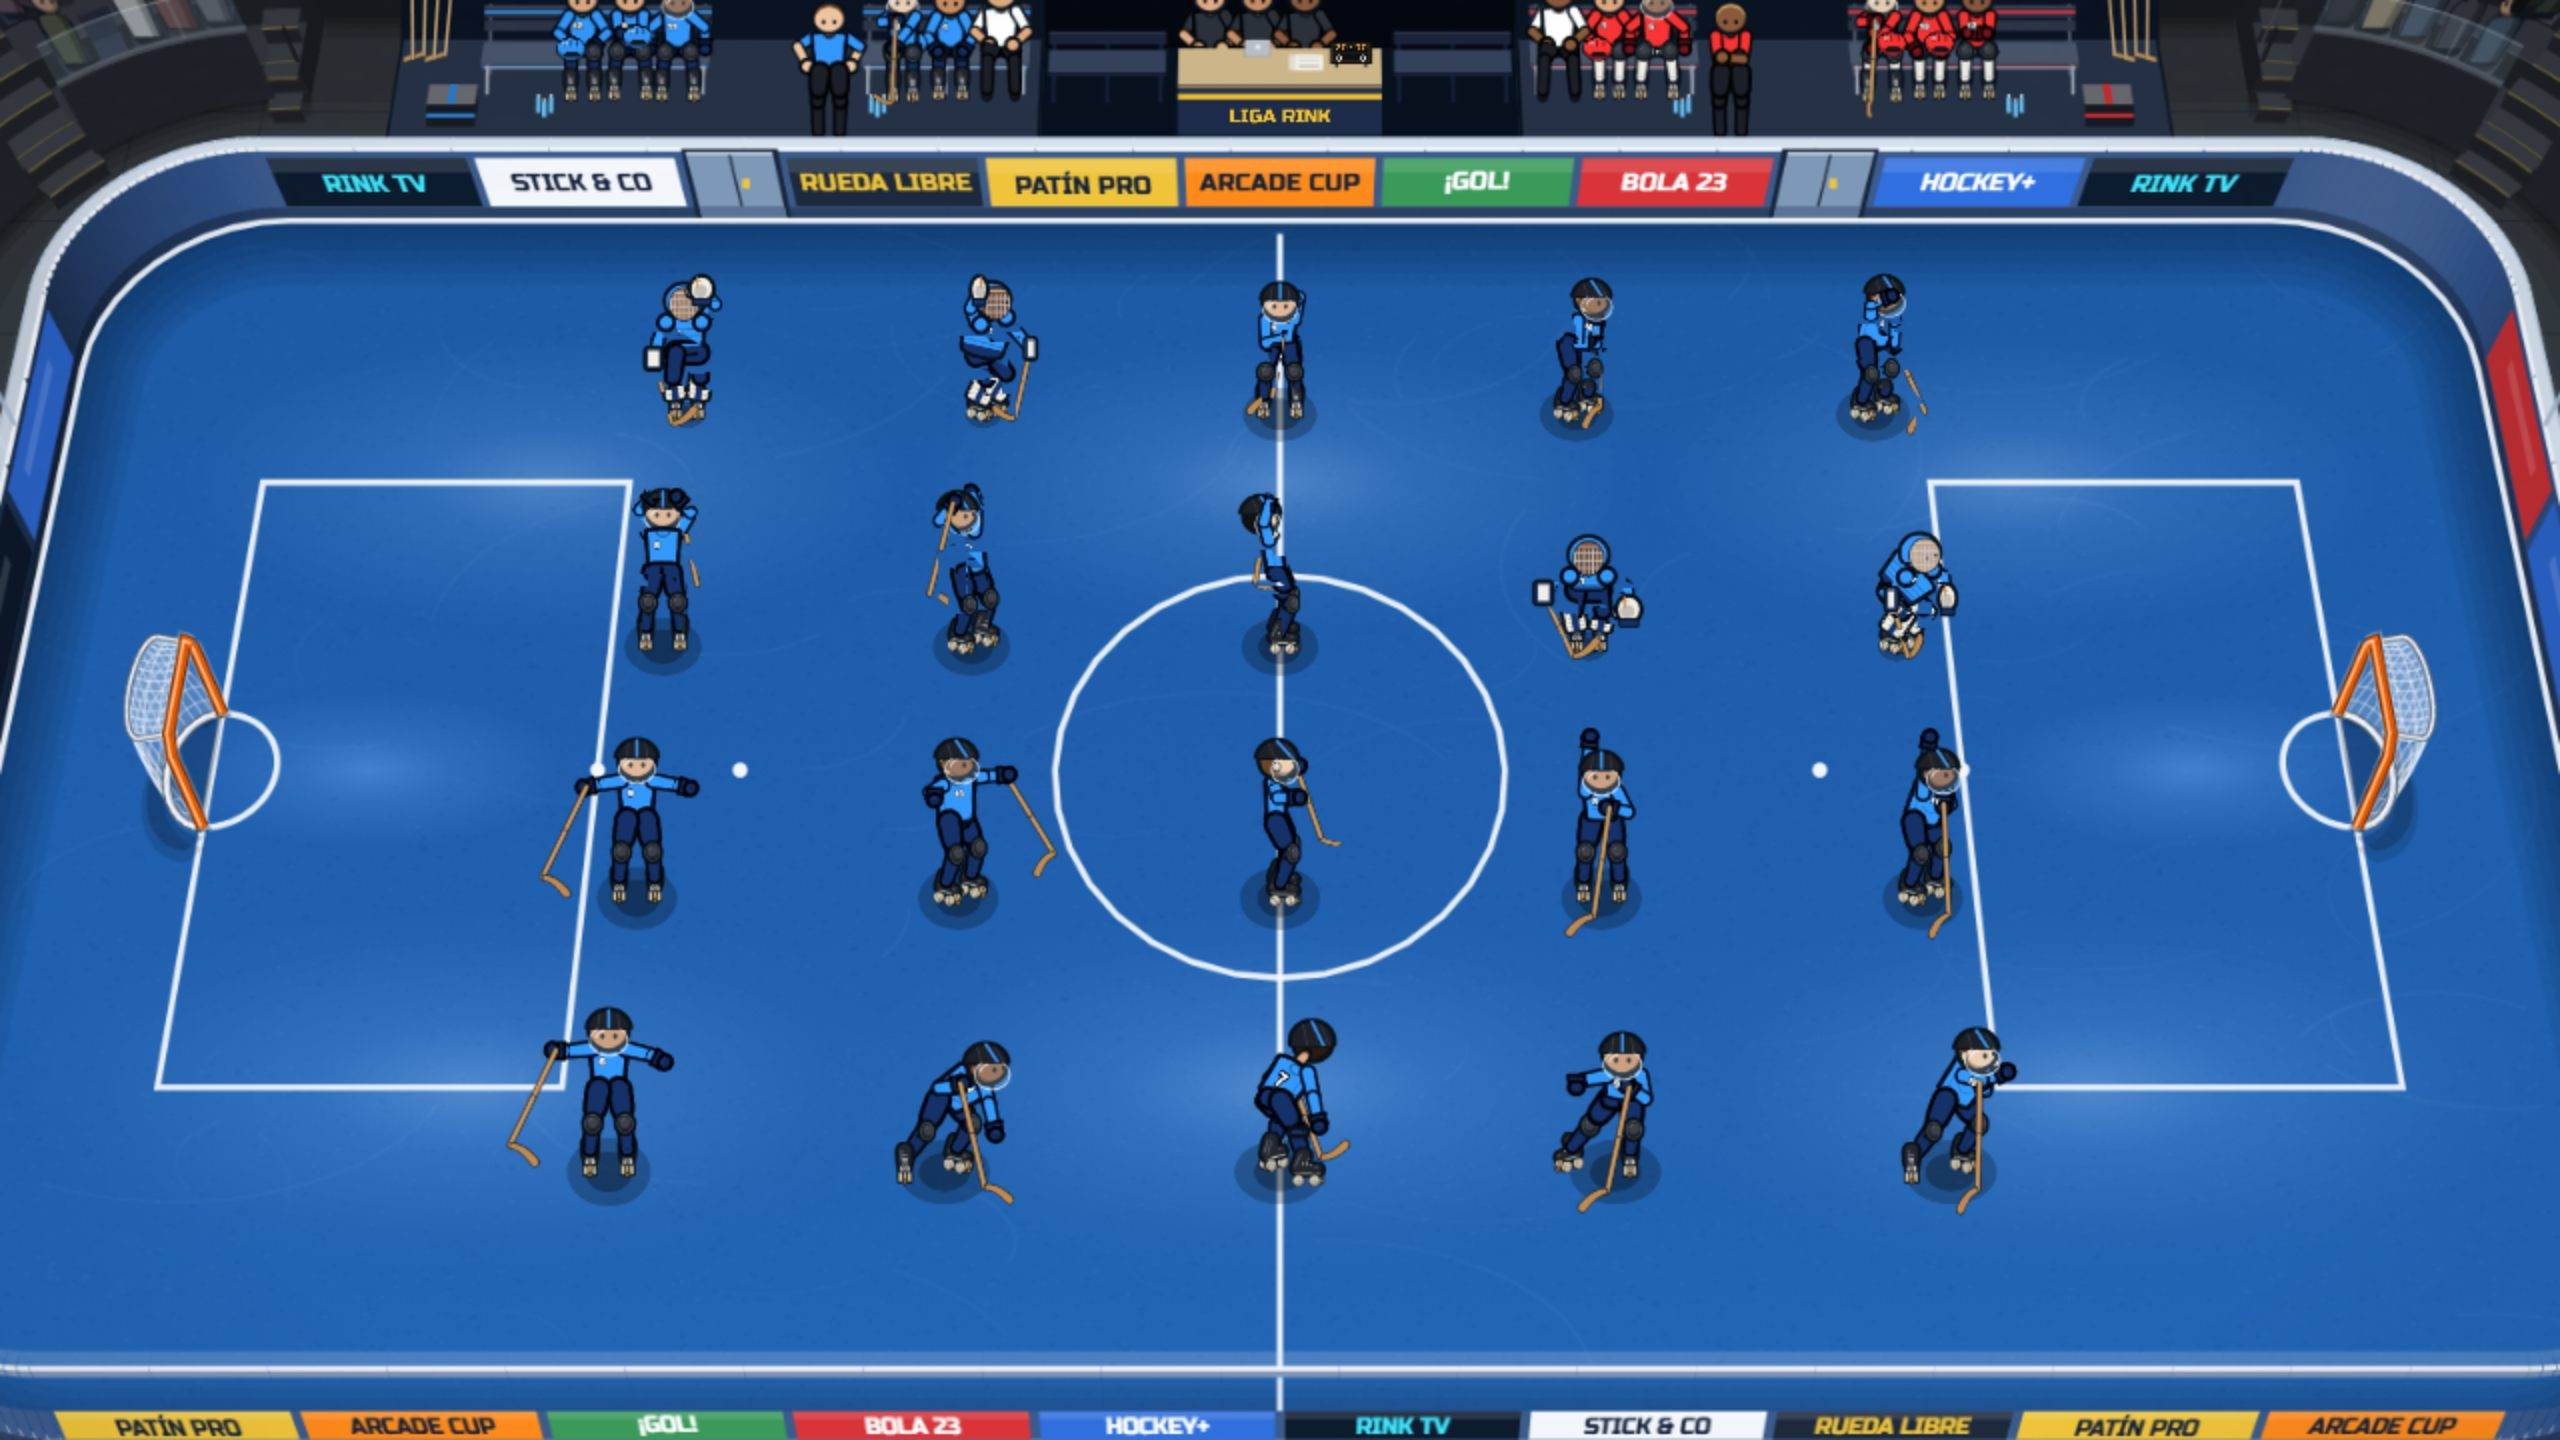
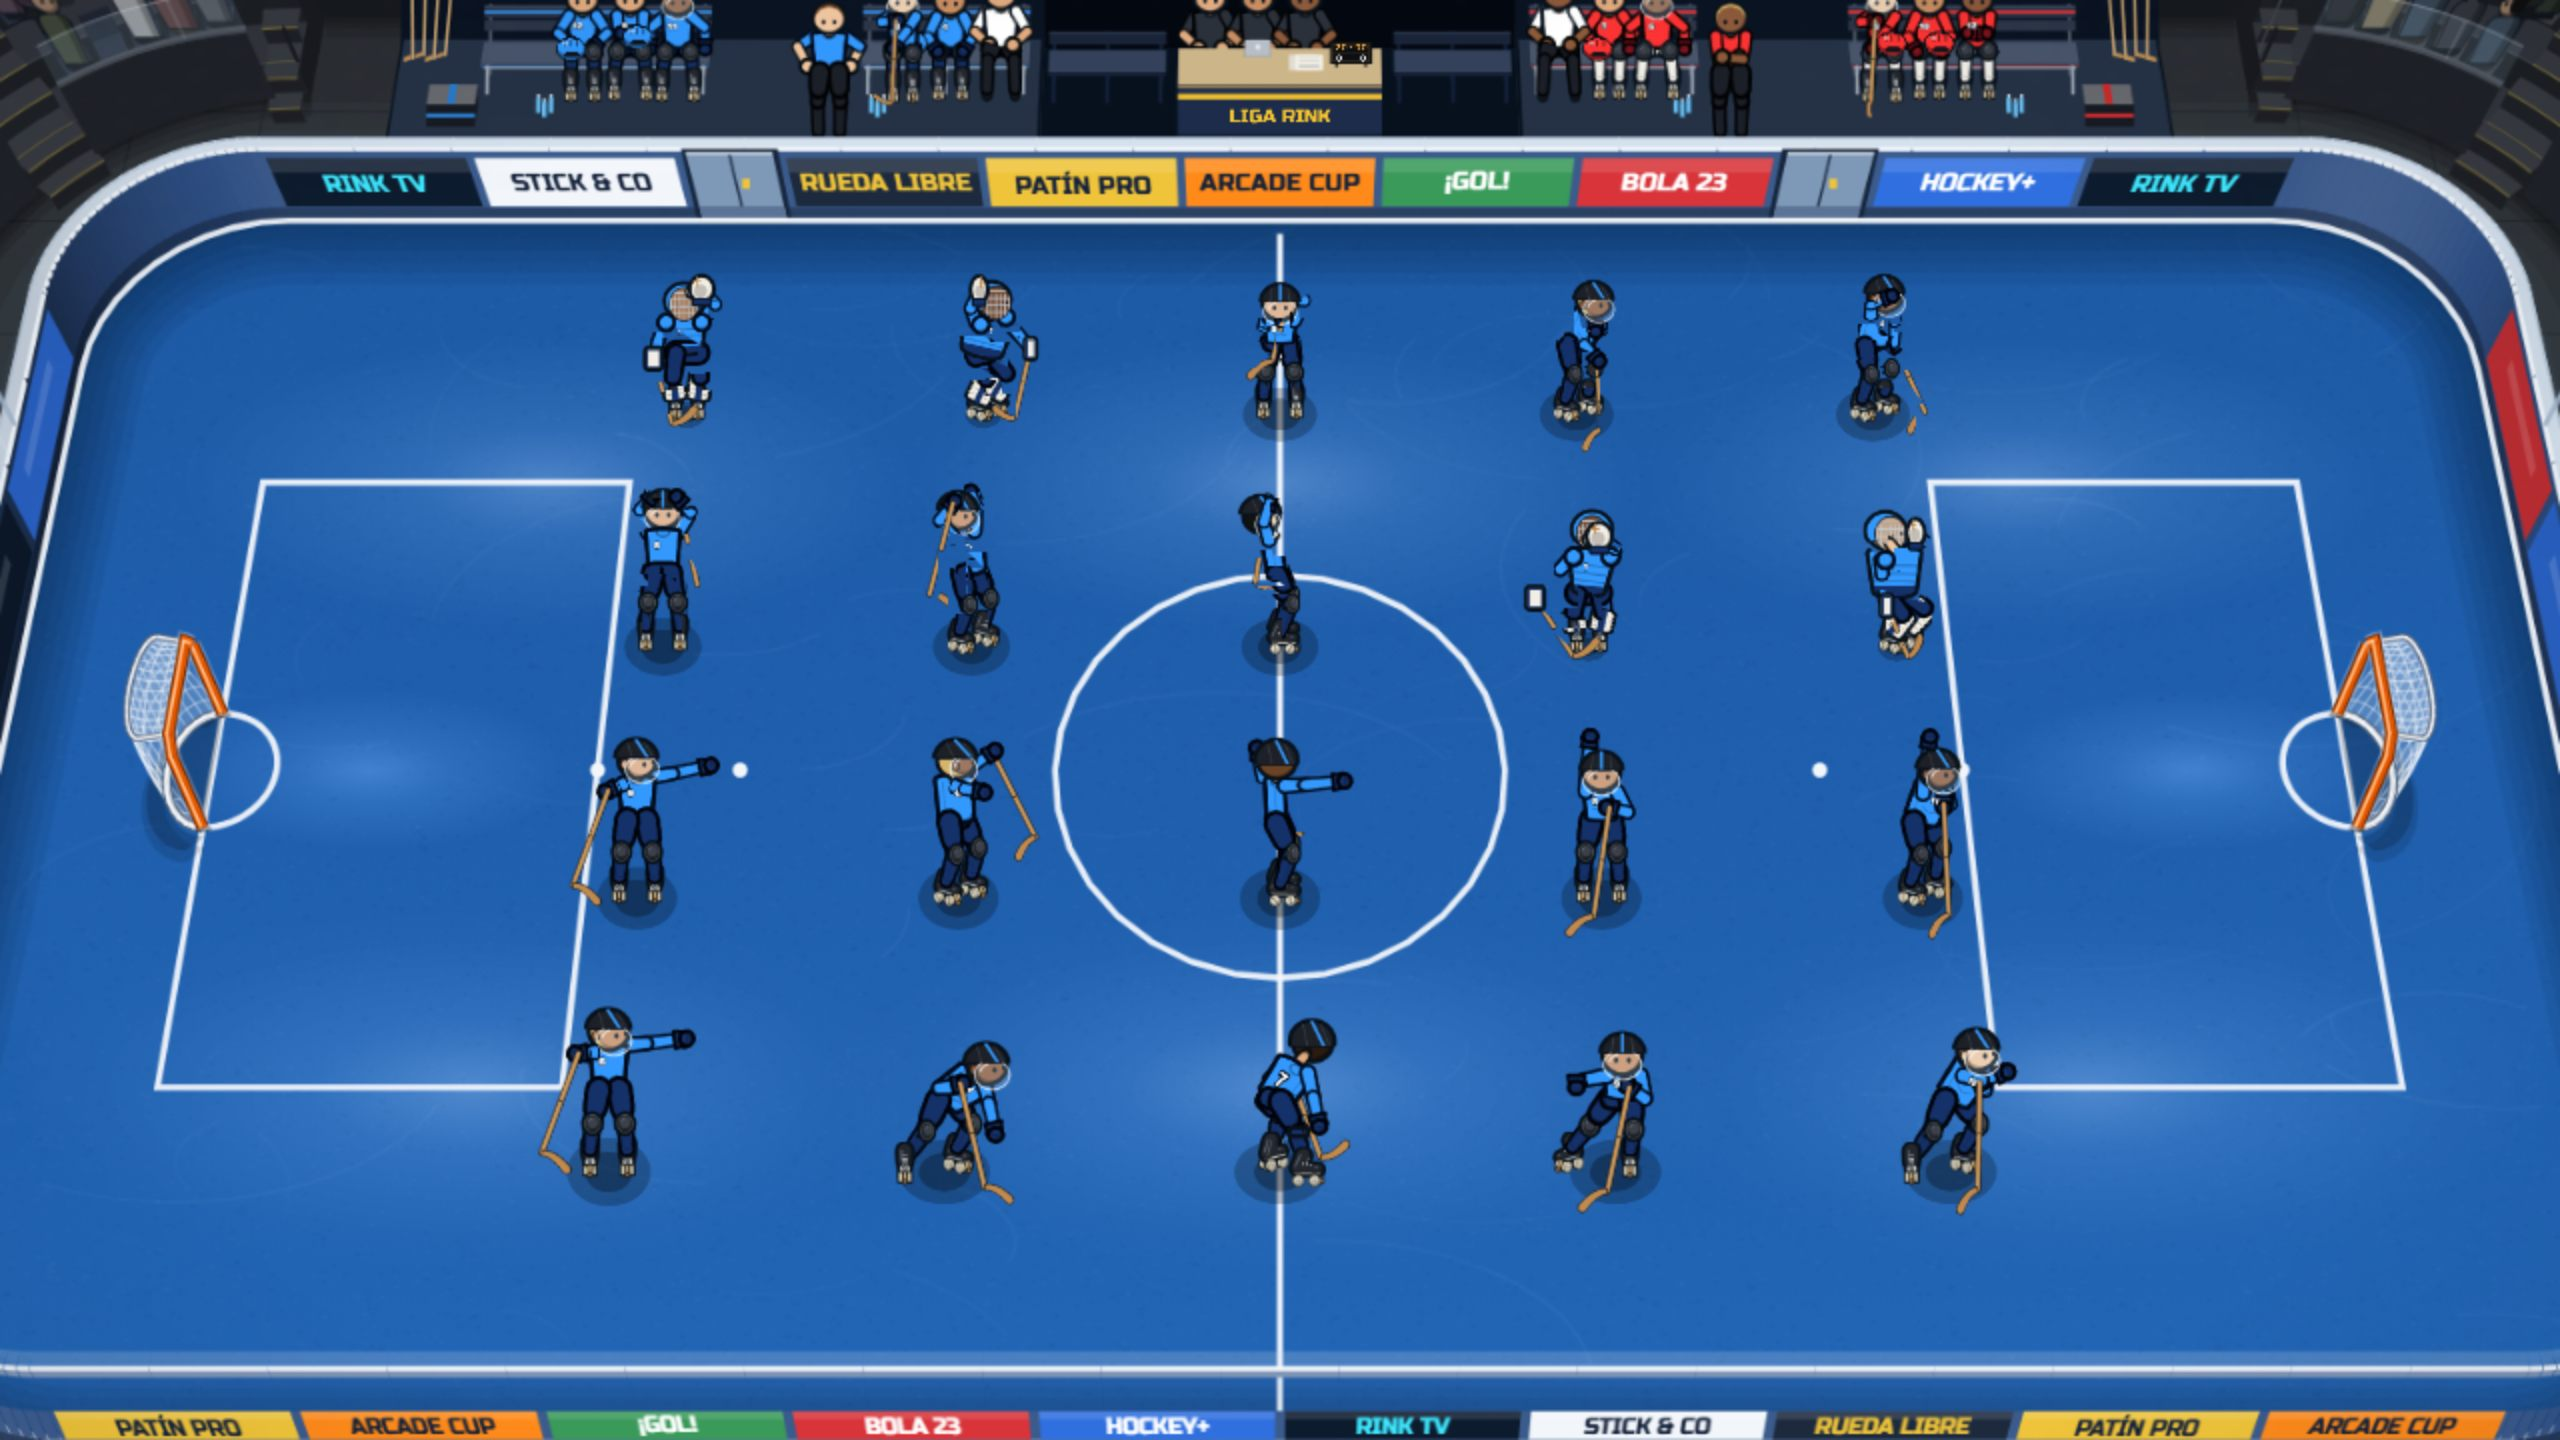
evo(E-20): protesta hacia el árbitro, golpes de stick y resoplido más legibles

diff --git a/src/game/render/puppet/reactionClips.ts b/src/game/render/puppet/reactionClips.ts
@@ -80,14 +80,36 @@ function slump(pose: PuppetPose, ctx: PoseContext, s: number, fi: 0 | 1) {
   to(pose.hands[fi], c.x + s * S.freeX, c.y - S.freeDrop, c.z + S.freeZ, w)
 }
 
-/** Brazos abiertos con las palmas arriba, temblando de indignación. */
-function protest(pose: PuppetPose, u: number, w: number, s: number, fi: 0 | 1) {
+/**
+ * Giro (rad, > 0 hacia la derecha del jugador) de la mirada hacia el punto (tx, ty) de la
+ * reacción, solo visual: `facing` no cambia. 0 si no hay punto.
+ */
+function lookTurn(ctx: PoseContext, r: PlayerReaction) {
+  if (r.tx !== r.tx) return 0
+  const p = ctx.player
+  const a = Math.atan2(r.ty - p.pos.y, r.tx - p.pos.x) - Math.atan2(p.facing.y, p.facing.x)
+  return Math.atan2(Math.sin(a), Math.cos(a))
+}
+
+/** Punto relativo a los hombros girado `tw` en el suelo (el tronco mira al árbitro). */
+function turned(c: V3, dx: number, dy: number, dz: number, tw: number, out: V3) {
+  return set3(out, c.x + dx * Math.cos(tw) + dz * Math.sin(tw), c.y + dy, c.z - dx * Math.sin(tw) + dz * Math.cos(tw))
+}
+
+/** Brazos abiertos con las palmas arriba hacia el árbitro, temblando de indignación. */
+function protest(pose: PuppetPose, ctx: PoseContext, r: PlayerReaction, u: number, w: number, s: number, fi: 0 | 1) {
   const Q = P.protest
   lean(pose, Q.pitch, w)
+  const look = lookTurn(ctx, r)
+  const tw = Math.max(-Q.twist, Math.min(Q.twist, look))
+  pose.trunk.twist += (tw - pose.trunk.twist) * w
+  pose.headYaw += Math.max(-Q.head, Math.min(Q.head, look - tw)) * w
   const c = shoulders(pose)
   const k = wave(u, Q.hz) * Q.shake
-  to(pose.hands[fi], c.x + s * Q.x, c.y + Q.y + k, c.z + Q.z, w)
-  hangStick(pose, c.x - s * Q.x, c.y + Q.y - k, c.z + Q.z, -s * 0.45, -0.85, 0.25, w)
+  turned(c, s * Q.x, Q.y + k, Q.z, tw, top)
+  to(pose.hands[fi], top.x, top.y, top.z, w)
+  turned(c, -s * Q.x, Q.y - k, Q.z, tw, heel)
+  hangStick(pose, heel.x, heel.y, heel.z, -s * 0.45 * Math.cos(tw), -0.85, 0.25, w)
 }
 
 /**
@@ -112,7 +134,9 @@ export function skaterReaction(pose: PuppetPose, ctx: PoseContext) {
       // Golpes de stick contra el suelo: las dos manos en el mango, la pala sube y cae
       const T = P.tap
       lean(pose, pose.trunk.pitch + T.pitch, w)
-      const k = Math.max(0, Math.sin(t * TAU * T.taps)) * w
+      // Cada golpe: sube despacio hasta la cadera (`rise` del ciclo) y cae de golpe al suelo
+      const cyc = (t * T.taps) % 1
+      const k = (cyc < T.rise ? smooth01(cyc / T.rise) : Math.max(0, 1 - (cyc - T.rise) / 0.08)) * w
       pose.stick.top.y += k * T.hand
       pose.stick.heel.y += k * T.heel
       break
@@ -140,8 +164,8 @@ export function skaterReaction(pose: PuppetPose, ctx: PoseContext) {
       hangStick(pose, c.x - s * Q.stickX, c.y + Q.stickY, c.z + Q.z, -s * 0.2, -0.95, -0.15, w)
       break
     }
-    case 'protest': protest(pose, u, w, s, fi); break
-    case 'card': protest(pose, u, w * (1 - smooth01((t - 0.6) / 0.4)), s, fi); break
+    case 'protest': protest(pose, ctx, r, u, w, s, fi); break
+    case 'card': protest(pose, ctx, r, u, w * (1 - smooth01((t - 0.6) / 0.4)), s, fi); break
     case 'own': {
       // El infractor levanta la mano libre: «he sido yo»
       const Q = P.own
@@ -184,12 +208,14 @@ export function goalieReaction(pose: PuppetPose, ctx: PoseContext, hand: V3, s: 
     return true
   }
   if (r.kind === 'phew') {
-    // Resoplido: hombros que caen y vuelven, manopla y stick colgando
+    // Resoplido: cabeza atrás, hombros hundidos y la manopla al casco
     const Q = P.phew
-    const e = pulse(t) * w
-    pose.trunk.pitch += Q.pitch * e
+    const e = Math.min(w, pulse(Math.min(1, t * 1.2)) * 1.4)
+    lean(pose, Q.pitch, e)
+    pose.headLean.z += Q.head * e
+    pose.trunk.roll -= s * Q.roll * e
     pose.pelvis.y -= Q.drop * e
-    mitt.y -= Q.mitt * e
+    to(mitt, -s * Q.mittX, Q.mittY, Q.mittZ, e)
     hand.y -= Q.hand * e
     return true
   }

diff --git a/src/game/systems/reactions.ts b/src/game/systems/reactions.ts
@@ -69,8 +69,8 @@ function react(st: ReactionState, p: Player, kind: ReactionKind, at: number, now
   if (busy(p, now, sinceFor(kind, st, now))) return false
   const until = at + R.ms[kind]
   const r = p.reaction
-  if (!r) { p.reaction = { kind, at, until, side }; return true }
-  r.kind = kind; r.at = at; r.until = until; r.side = side
+  if (!r) { p.reaction = { kind, at, until, side, tx: NaN, ty: NaN }; return true }
+  r.kind = kind; r.at = at; r.until = until; r.side = side; r.tx = NaN; r.ty = NaN
   return true
 }
 
@@ -142,14 +142,25 @@ export function reactPost(st: ReactionState, players: Player[], ball: Ball, carr
   if (shooter) reactMiss(st, players, shooter, ball.x, ball.y, carrierId, now)
 }
 
+/**
+ * La protesta mira al árbitro de su mitad (sistema en diagonal de `systems/officials.ts`: la
+ * mitad derecha junto a la valla lejana, la izquierda junto a la cercana), a su altura de pista.
+ */
+function lookAtReferee(p: Player) {
+  const r = p.reaction
+  if (!r) return
+  r.tx = p.pos.x
+  r.ty = p.pos.x > (LEFT_X + RIGHT_X) / 2 ? RINK.y : RINK.y + RINK.height
+}
+
 /** Falta pitada: la víctima protesta con los brazos abiertos; el infractor levanta la mano o, si ve tarjeta, protesta y sale cabizbajo. */
 export function reactFoul(st: ReactionState, players: Player[], byId_: string, victimId: string, carrierId: string | null, now: number) {
   const off = byId(players, byId_)
   const vic = byId(players, victimId)
-  if (vic && vic !== off) react(st, vic, 'protest', now, now, carrierId)
+  if (vic && vic !== off && react(st, vic, 'protest', now, now, carrierId)) lookAtReferee(vic)
   if (!off) return
   const card = (off.suspendedUntil ?? 0) > now
-  if (card && react(st, off, 'card', now, now, carrierId)) st.patFor = off.id
+  if (card && react(st, off, 'card', now, now, carrierId)) { st.patFor = off.id; lookAtReferee(off) }
   else if (!card) react(st, off, 'own', now, now, carrierId)
 }
 

diff --git a/src/scenes/lab/labActionStrips.ts b/src/scenes/lab/labActionStrips.ts
@@ -171,20 +171,20 @@ export const ACTION_STRIPS: Record<string, () => FigureSpec[]> = {
     return [
       reactionCell(0, 0, F, { kind: 'mine', ms: 420 }, 'goalie'),
       reactionCell(0, 1, Q, { kind: 'mine', ms: 600 }, 'goalie'),
-      reactionCell(0, 2, F, { kind: 'tap', ms: 330 }),
-      reactionCell(0, 3, Q, { kind: 'tap', ms: 600 }),
+      reactionCell(0, 2, F, { kind: 'tap', ms: 230 }),
+      reactionCell(0, 3, Q, { kind: 'tap', ms: 290 }),
       reactionCell(0, 4, Q, { kind: 'rue', ms: 450 }),
       reactionCell(1, 0, F, { kind: 'miss', ms: 380 }),
       reactionCell(1, 1, Q, { kind: 'miss', ms: 450 }),
       reactionCell(1, 2, 0, { kind: 'miss', ms: 450 }),
       reactionCell(1, 3, F, { kind: 'phew', ms: 400 }, 'goalie'),
       reactionCell(1, 4, Q, { kind: 'phew', ms: 400 }, 'goalie'),
-      reactionCell(2, 0, F, { kind: 'protest', ms: 450 }),
-      reactionCell(2, 1, Q, { kind: 'protest', ms: 450 }),
-      reactionCell(2, 2, 0, { kind: 'protest', ms: 450 }),
+      reactionCell(2, 0, F, { kind: 'protest', ms: 450, look: -Math.PI / 2 }),
+      reactionCell(2, 1, Q, { kind: 'protest', ms: 450, look: -Math.PI / 2 }),
+      reactionCell(2, 2, 0, { kind: 'protest', ms: 450, look: -Math.PI / 2 }),
       reactionCell(2, 3, F, { kind: 'own', ms: 400 }),
       reactionCell(2, 4, Q, { kind: 'own', ms: 400 }),
-      reactionCell(3, 0, F, { kind: 'card', ms: 350, pen: true }),
+      reactionCell(3, 0, F, { kind: 'card', ms: 350, pen: true, look: -Math.PI / 2 }),
       reactionCell(3, 1, Q, { kind: 'card', ms: 1400, pen: true }, 'defender', true),
       reactionCell(3, 2, -Q, { kind: 'card', ms: 1400, pen: true }, 'defender', true),
       reactionCell(3, 3, F, { kind: 'pat', ms: 260, side: 1 }, 'defender', true),

diff --git a/src/game/render/artSpec.ts b/src/game/render/artSpec.ts
@@ -327,11 +327,12 @@ export const GOALIE_ENVELOPE = { save: [0.22, 0.7], concede: [0.15, 0.85] } as c
  */
 export const REACTION_POSE = {
   mine: { mittX: 0.1, mittY: 0.86, mittZ: 0.06, pump: 0.04, hz: 2.4, pitch: -0.08, roll: 0.08 },
-  phew: { pitch: 0.55, drop: 0.05, mitt: 0.2, hand: 0.14 },
-  tap: { taps: 2.5, hand: 0.14, heel: 0.26, pitch: 0.16 },
+  phew: { pitch: -0.12, head: -0.09, drop: 0.07, mittX: 0.07, mittY: 0.74, mittZ: 0.1, hand: 0.2, roll: 0.1 },
+  tap: { taps: 2, rise: 0.72, hand: 0.22, heel: 0.48, pitch: 0.2 },
   rue: { pitch: 0.42, x: 0.05, y: 0.15, z: 0.07, stickX: 0.17, stickY: -0.03 },
   miss: { pitch: -0.2, head: -0.07, x: 0.07, y: 0.24, z: 0.0, stickX: 0.1, stickY: 0.22 },
-  protest: { x: 0.31, y: 0.0, z: 0.13, pitch: -0.04, shake: 0.03, hz: 2.2 },
+  /** `twist`/`head`: tope del giro (rad) del tronco y de la cabeza hacia el árbitro. */
+  protest: { x: 0.4, y: 0.06, z: 0.2, pitch: -0.06, shake: 0.035, hz: 2.2, twist: 0.7, head: 0.6 },
   own: { x: 0.07, y: 0.33, z: 0.03, pitch: 0.06 },
   pat: { x: 0.28, y: -0.02, z: 0.1, cross: 0.16 },
   slump: { fadeMs: 400, pitch: 0.3, head: 0.08, freeX: 0.13, freeDrop: 0.3, freeZ: 0.06 },

diff --git a/src/scenes/lab/labFigures.ts b/src/scenes/lab/labFigures.ts
@@ -78,7 +78,7 @@ export interface LabMood {
 }
 
 /** Reacción en juego forzada (E-20): ms desde que empieza; pen = sancionado saliendo. */
-export interface LabReaction { kind: ReactionKind; ms: number; side?: 1 | -1; pen?: boolean }
+export interface LabReaction { kind: ReactionKind; ms: number; side?: 1 | -1; pen?: boolean; /** Ángulo de mundo hacia el «árbitro» de la protesta. */ look?: number }
 
 export interface FigureSpec {
   mood?: LabMood
@@ -153,7 +153,7 @@ export function poseFigure(fig: LabFigure, t: number, phaseOffset = 0) {
   }
   const fr = fig.reaction
   if (fr) {
-    player.reaction = { kind: fr.kind, at: t - fr.ms, until: t - fr.ms + REACTION.ms[fr.kind], side: fr.side ?? 1 }
+    player.reaction = { kind: fr.kind, at: t - fr.ms, until: t - fr.ms + REACTION.ms[fr.kind], side: fr.side ?? 1, tx: fr.look ? player.pos.x + Math.cos(fr.look) * 300 : NaN, ty: fr.look ? player.pos.y + Math.sin(fr.look) * 300 : NaN }
     player.penPhase = fr.pen ? 'out' : undefined
     player.penPhaseAt = t - 1000
   }

diff --git a/src/game/types.ts b/src/game/types.ts
@@ -25,8 +25,8 @@ export type PlayerMood = { kind: MoodKind; style: number; at: number; until: num
  * resopla, `protest` víctima de falta, `own` infractor, `card` sancionado, `pat` palmada.
  */
 export type ReactionKind = 'mine' | 'tap' | 'rue' | 'miss' | 'phew' | 'protest' | 'own' | 'card' | 'pat'
-/** `at`/`until` en `simNow` (cortar = `until` ≤ ahora); `side` = lado (±1, derecha) del gesto. */
-export type PlayerReaction = { kind: ReactionKind; at: number; until: number; side: 1 | -1 }
+/** `at`/`until` en `simNow` (cortar = `until` ≤ ahora); `side` = lado (±1, derecha) del gesto; `tx`/`ty` = punto de mundo al que mira la protesta (NaN: ninguno). */
+export type PlayerReaction = { kind: ReactionKind; at: number; until: number; side: 1 | -1; tx: number; ty: number }
 
 export type Ball = {
   x: number           // coordenada X mundo — usada por física
